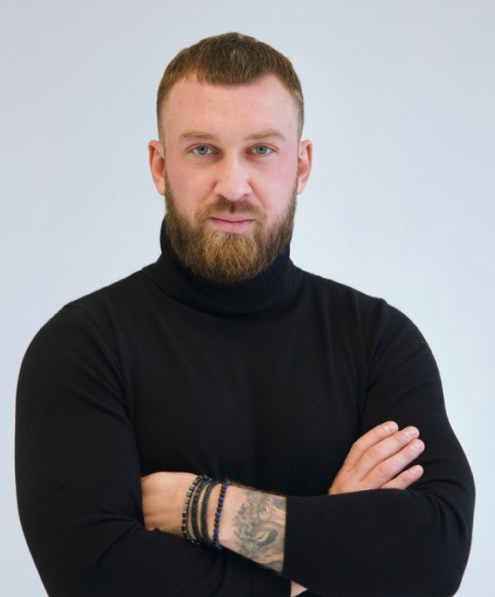
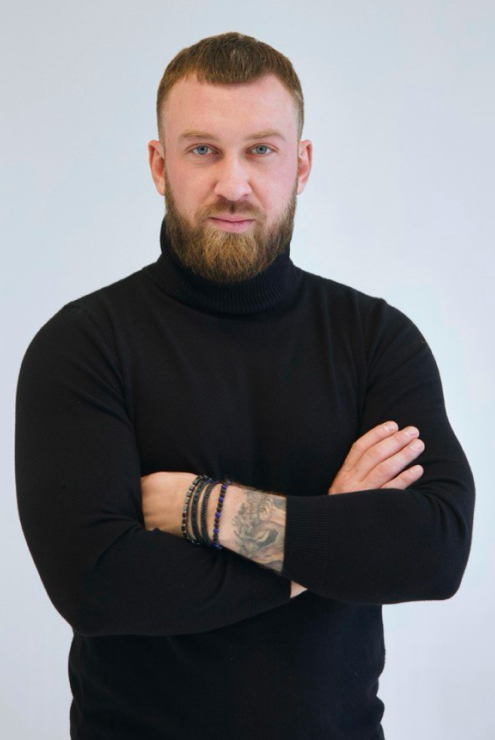
developer sections changes

diff --git a/app/[locale]/page.tsx b/app/[locale]/page.tsx
@@ -143,7 +143,11 @@ export default async function Home({
 			/>
 
 			<section className="max-w-7xl mx-auto md:px-14 pb-14 pt-10 lg:pt-0 flex flex-col gap-6">
-				<div className="flex items-center gap-4">
+				<div
+					className="flex items-center gap-4"
+					data-aos="fade-down-right"
+					data-aos-duration="500"
+				>
 					<Image src={patternDev} alt="pattern" width={30} height={29} />
 					<h2 className="text-base leading-5 uppercase text-gray-100 font-CodecPro500 md:text-2xl lg:leading-6">
 						{t("home.developer.title")}
@@ -151,23 +155,30 @@ export default async function Home({
 				</div>
 
 				<div className="flex flex-col md:flex-row gap-10">
-					<div className="flex flex-1 flex-col gap-6">
-						<Image src={developer} alt="developer" className="w-full" />
-
-						<div className="flex flex-col justify-center items-center gap-3 bg-primary-100 p-6">
-							<p className="font-CodecPro font-normal text-sm text-gray-0 leading-5 md:text-xl lg:leading-6">
-								{t("home.developer.knowledge")}
-							</p>
-							<p className="font-CodecPro font-normal text-sm text-gray-0 leading-5 md:text-xl lg:leading-6">
-								{t("home.developer.projects")}
-							</p>
-						</div>
+					<div
+						className="flex flex-1 flex-col gap-6"
+						data-aos="fade-right"
+						data-aos-duration="500"
+					>
+						<Image src={developer} alt="developer" className="w-full h-auto lg:h-full" />
 					</div>
 
 					<div className="relative flex flex-1 flex-col justify-center gap-10 bg-primary-100 py-20 px-9">
-						<Image src={logo} alt="logo" className="absolute right-0 -top-14 md:-top-24 lg:-top-36 w-2/5 md:w-1/2" />
+						<Image
+							src={logo}
+							alt="logo"
+							className="absolute right-0 -top-14 md:-top-24 lg:-top-24 w-2/5"
+							data-aos="fade-up"
+							data-aos-duration="500"
+							data-aos-delay="300"
+						/>
 
-						<div className="flex flex-col justify-center items-center gap-3">
+						<div
+							className="flex flex-col justify-center items-center gap-3"
+							data-aos="fade-up"
+							data-aos-duration="500"
+							data-aos-delay="500"
+						>
 							<p className="text-base leading-5 uppercase text-gray-30 font-CodecPro500 md:text-2xl lg:leading-6">
 								{t("home.developer.name")}
 							</p>
@@ -176,7 +187,12 @@ export default async function Home({
 							</p>
 						</div>
 
-						<div className="flex flex-col gap-4">
+						<div
+							className="flex flex-col gap-4"
+							data-aos="fade-up"
+							data-aos-duration="500"
+							data-aos-delay="700"
+						>
 							<p className="text-sm leading-6 text-gray-30 font-CodecPro200 md:text-base">
 								{t("home.developer.experience")}
 							</p>
@@ -188,7 +204,12 @@ export default async function Home({
 							</p>
 						</div>
 
-						<div className="flex flex-col gap-2">
+						<div
+							className="flex flex-col gap-2"
+							data-aos="fade-up"
+							data-aos-duration="500"
+							data-aos-delay="900"
+						>
 							<p className="text-sm leading-6 text-gray-30 font-CodecPro200 md:text-base">
 								{t("home.developer.builded.title")}
 							</p>
